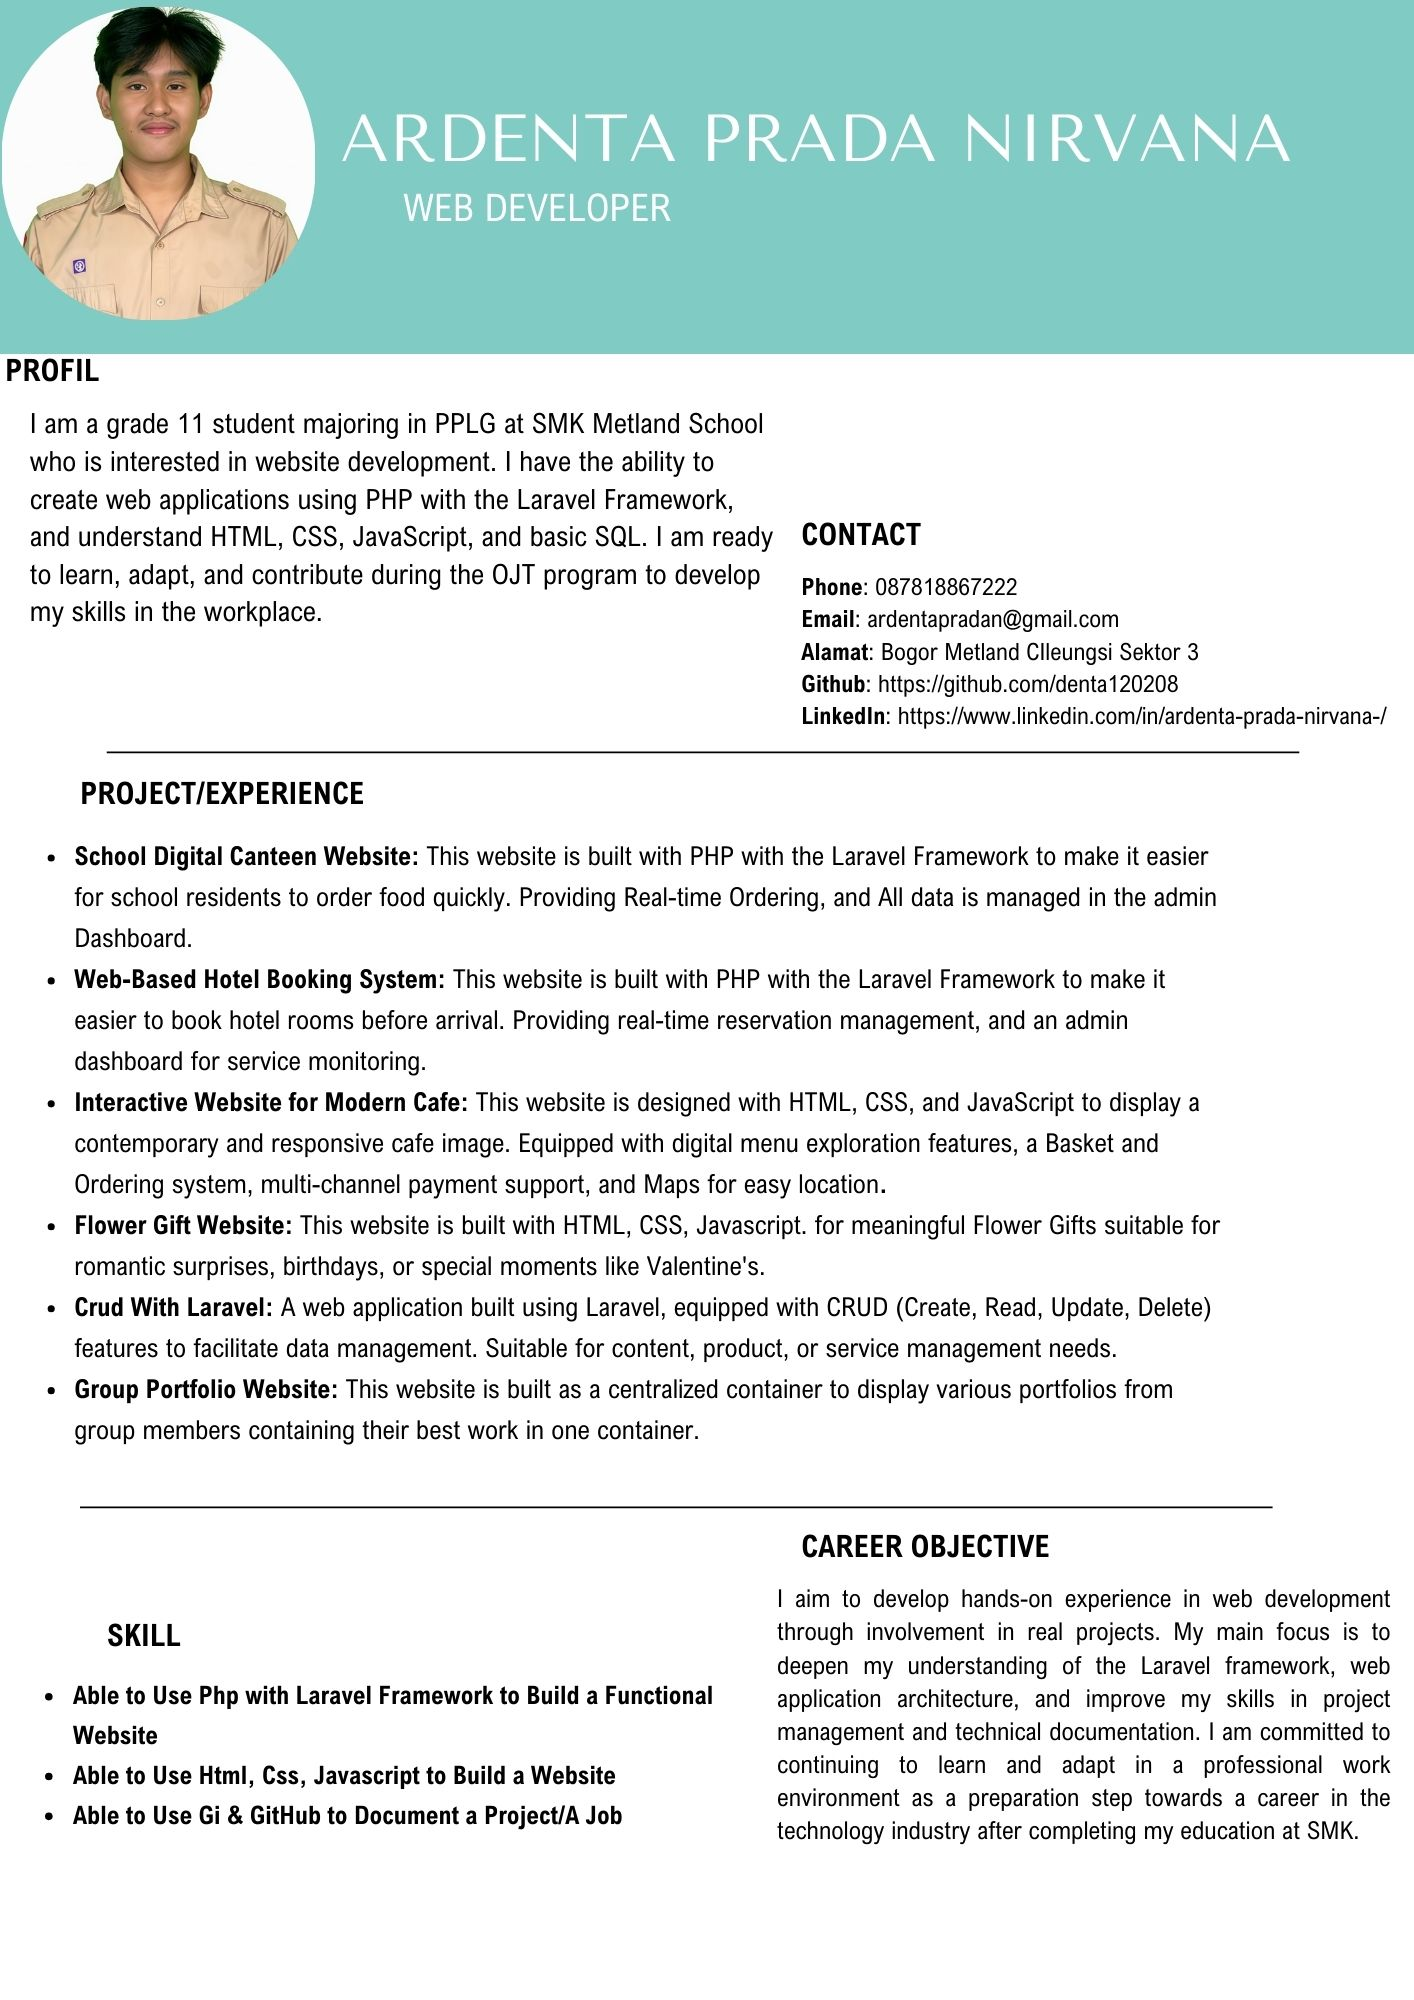
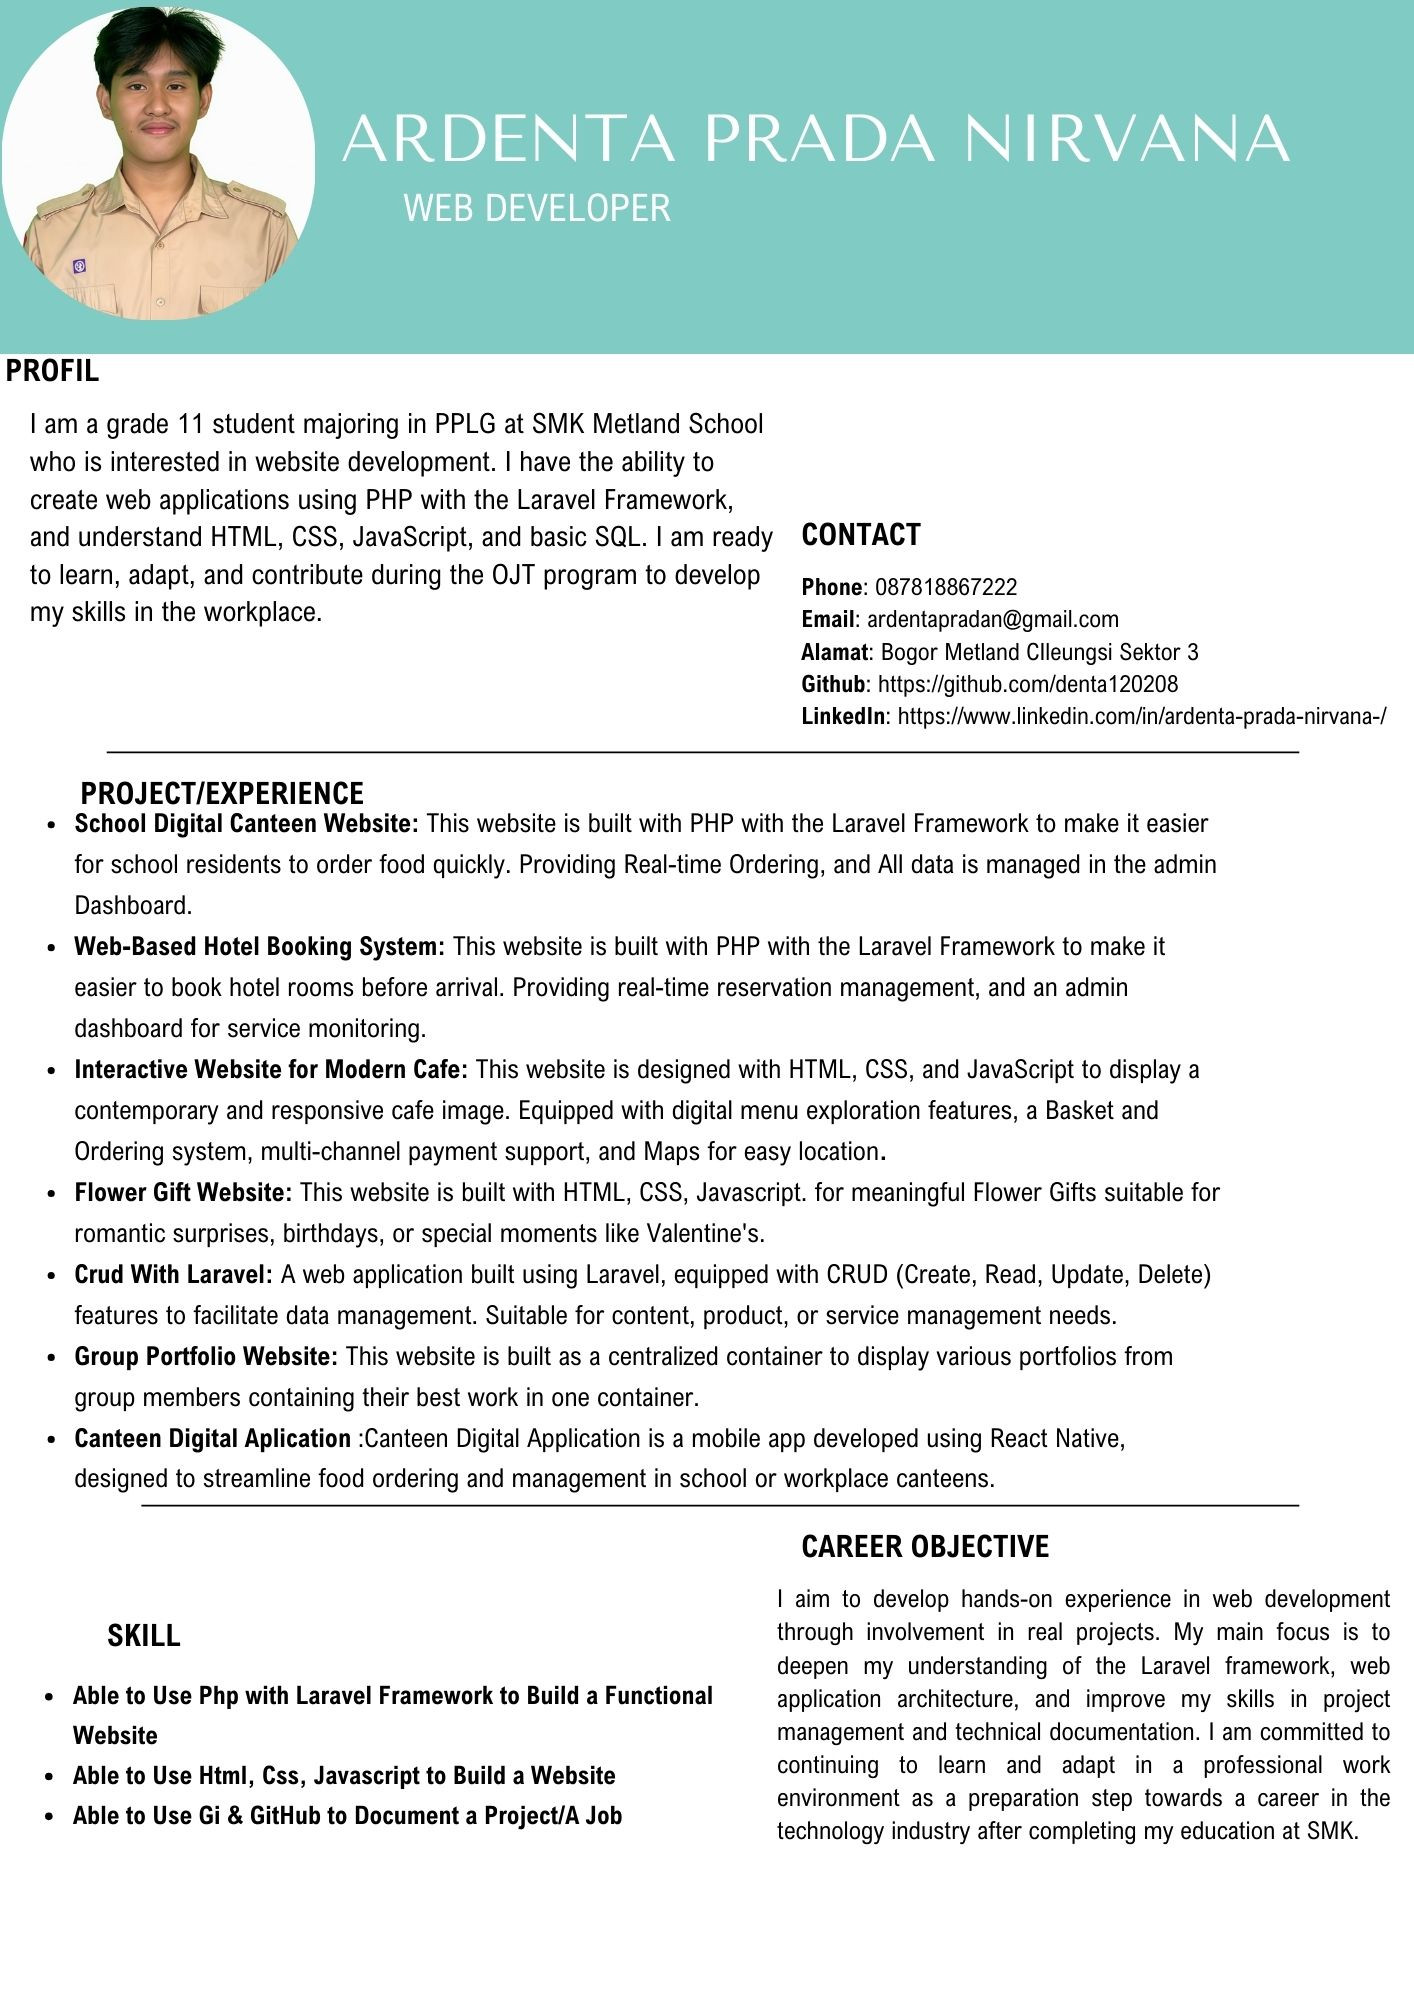
Projek

Changed region(s): [[0.0311, 0.403, 0.8713, 0.744]]

diff --git a/index.html b/index.html
@@ -170,14 +170,16 @@ I have a good understanding of Back-End development using PHP and the Laravel fr
         </div>
     
         <div class="portfolio-box">
-          <img src="assets/image/Crud.png" alt="portfolio" />
+          <img src="assets/image/apk.png" alt="portfolio" />
           <div class="portfolio-layer">
-            <h4>crud With Laravel</h4>
+            <h4>Canteen Digital application</h4>
             <p>
-              A web application built using Laravel, equipped with CRUD (Create, Read, Update, Delete) features to facilitate data management. Suitable for content, product, or service management needs.
+              Canteen Digital Application is a mobile app developed using React Native, designed to streamline food ordering and management in school or workplace canteens.
+
             </p>
             <div class="icon-container">
-              <a href="https://github.com/denta120208/Crud_Laravel"><i class="bx bxl-github"></i></a>
+              <a href="https://expo.dev/artifacts/eas/ezocrZZhq5ac7omXBmjPwQ.apk"><i class="bx bx-link-external"></i></a>
+              <a href="https://github.com/denta120208/Aplikasi--KantinMs"><i class="bx bxl-github"></i></a>
             </div>
           </div>
         </div>
